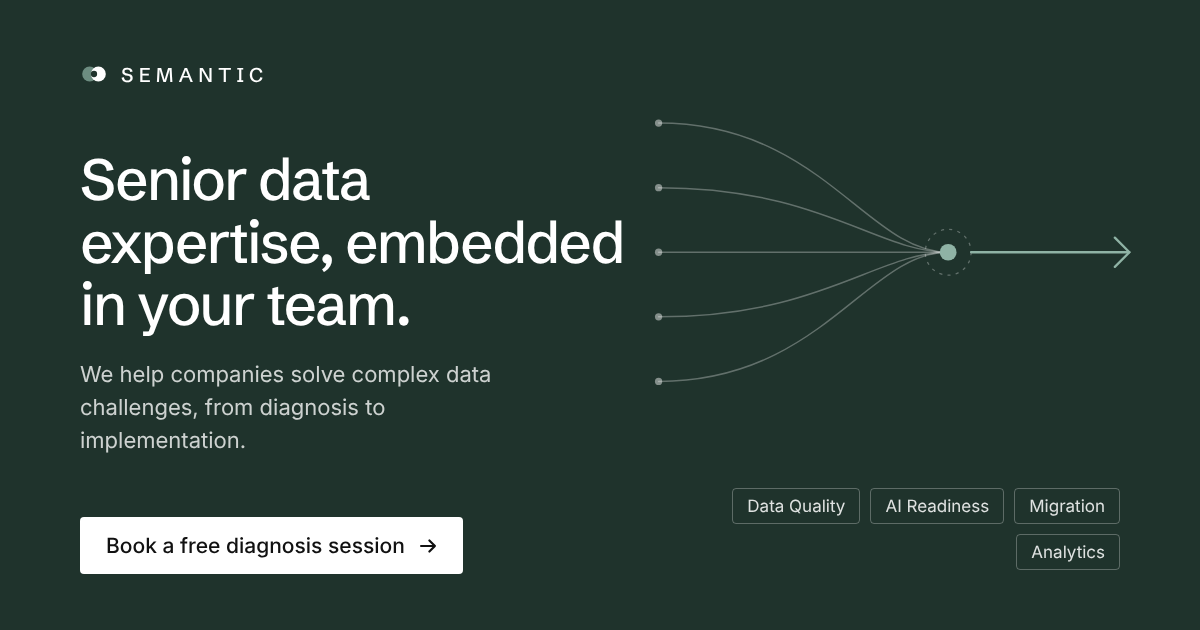
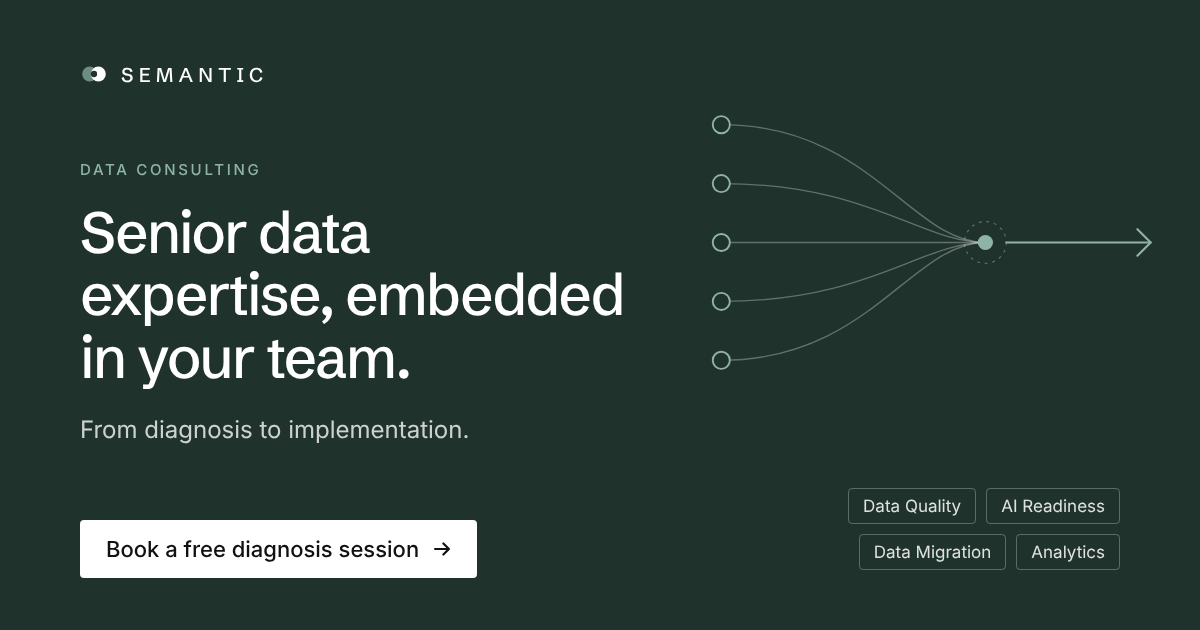
Default link preview: align with the Join Network card
Claude-Session: https://claude.ai/code/session_01AKtMpnwhHwDs3kNmxbW8YG

diff --git a/tools/og-card.html b/tools/og-card.html
@@ -22,7 +22,7 @@
   body{width:1200px;height:630px;background:#1F332C;color:#fff;
        font-family:'Inter',Helvetica,Arial,sans-serif;overflow:hidden;position:relative;
        display:flex;flex-direction:column;justify-content:space-between;
-       padding:60px 80px 56px}
+       padding:60px 80px 52px}
   .mark{display:flex;align-items:center;gap:13px;
         font-family:'Schibsted Grotesk',Helvetica,Arial,sans-serif;
         font-size:20px;font-weight:500;letter-spacing:.26em;text-transform:uppercase}
@@ -30,11 +30,11 @@
            color:#8FB3A5;margin-bottom:22px}
   h1{font-family:'Schibsted Grotesk',Helvetica,Arial,sans-serif;font-size:58px;
      line-height:1.08;letter-spacing:-.034em;font-weight:500}
-  .sub{margin-top:22px;font-size:22px;line-height:1.5;color:rgba(255,255,255,.78);max-width:34ch}
+  .sub{margin-top:24px;font-size:24px;line-height:1.5;color:rgba(255,255,255,.78);max-width:30ch}
   .cta{display:inline-flex;align-items:center;gap:14px;background:#fff;color:#111;
-       font-size:21px;font-weight:500;padding:16px 26px;border-radius:4px}
-  .plate{position:absolute;right:56px;top:96px;width:500px}
-  .tags{position:absolute;right:80px;bottom:60px;width:440px;display:flex;flex-wrap:wrap;
+       font-size:22px;font-weight:500;padding:16px 26px;border-radius:4px}
+  .plate{position:absolute;right:36px;top:100px;width:456px}
+  .tags{position:absolute;right:80px;bottom:60px;width:340px;display:flex;flex-wrap:wrap;
         justify-content:flex-end;gap:10px}
   .tag{border:1px solid rgba(255,255,255,.28);color:rgba(255,255,255,.86);font-size:17px;
        padding:7px 14px;border-radius:4px}
@@ -59,10 +59,10 @@
       <path d="M14 212C170 212 224 150 292 150"/>
       <path d="M14 274C170 274 214 150 292 150"/>
     </g>
-    <g fill="rgba(255,255,255,.45)">
-      <circle cx="14" cy="26" r="3.5"/><circle cx="14" cy="88" r="3.5"/>
-      <circle cx="14" cy="150" r="3.5"/><circle cx="14" cy="212" r="3.5"/>
-      <circle cx="14" cy="274" r="3.5"/>
+    <g fill="#1F332C" stroke="#8FB3A5" stroke-width="2">
+      <circle cx="14" cy="26" r="9"/><circle cx="14" cy="88" r="9"/>
+      <circle cx="14" cy="150" r="9"/><circle cx="14" cy="212" r="9"/>
+      <circle cx="14" cy="274" r="9"/>
     </g>
     <circle cx="292" cy="150" r="22" stroke="rgba(255,255,255,.30)" stroke-width="1.2" stroke-dasharray="3 5"/>
     <circle cx="292" cy="150" r="8" fill="#8FB3A5"/>
@@ -71,8 +71,9 @@
   </svg>
 
   <div>
+    <p class="eyebrow">Data consulting</p>
     <h1>Senior data<br>expertise, embedded<br>in your team.</h1>
-    <p class="sub">We help companies solve complex data challenges, from diagnosis to implementation.</p>
+    <p class="sub">From diagnosis to implementation.</p>
   </div>
 
   <div>
@@ -82,7 +83,7 @@
 
   <div class="tags">
     <span class="tag">Data Quality</span><span class="tag">AI Readiness</span>
-    <span class="tag">Migration</span><span class="tag">Analytics</span>
+    <span class="tag">Data Migration</span><span class="tag">Analytics</span>
   </div>
 </body>
 </html>
